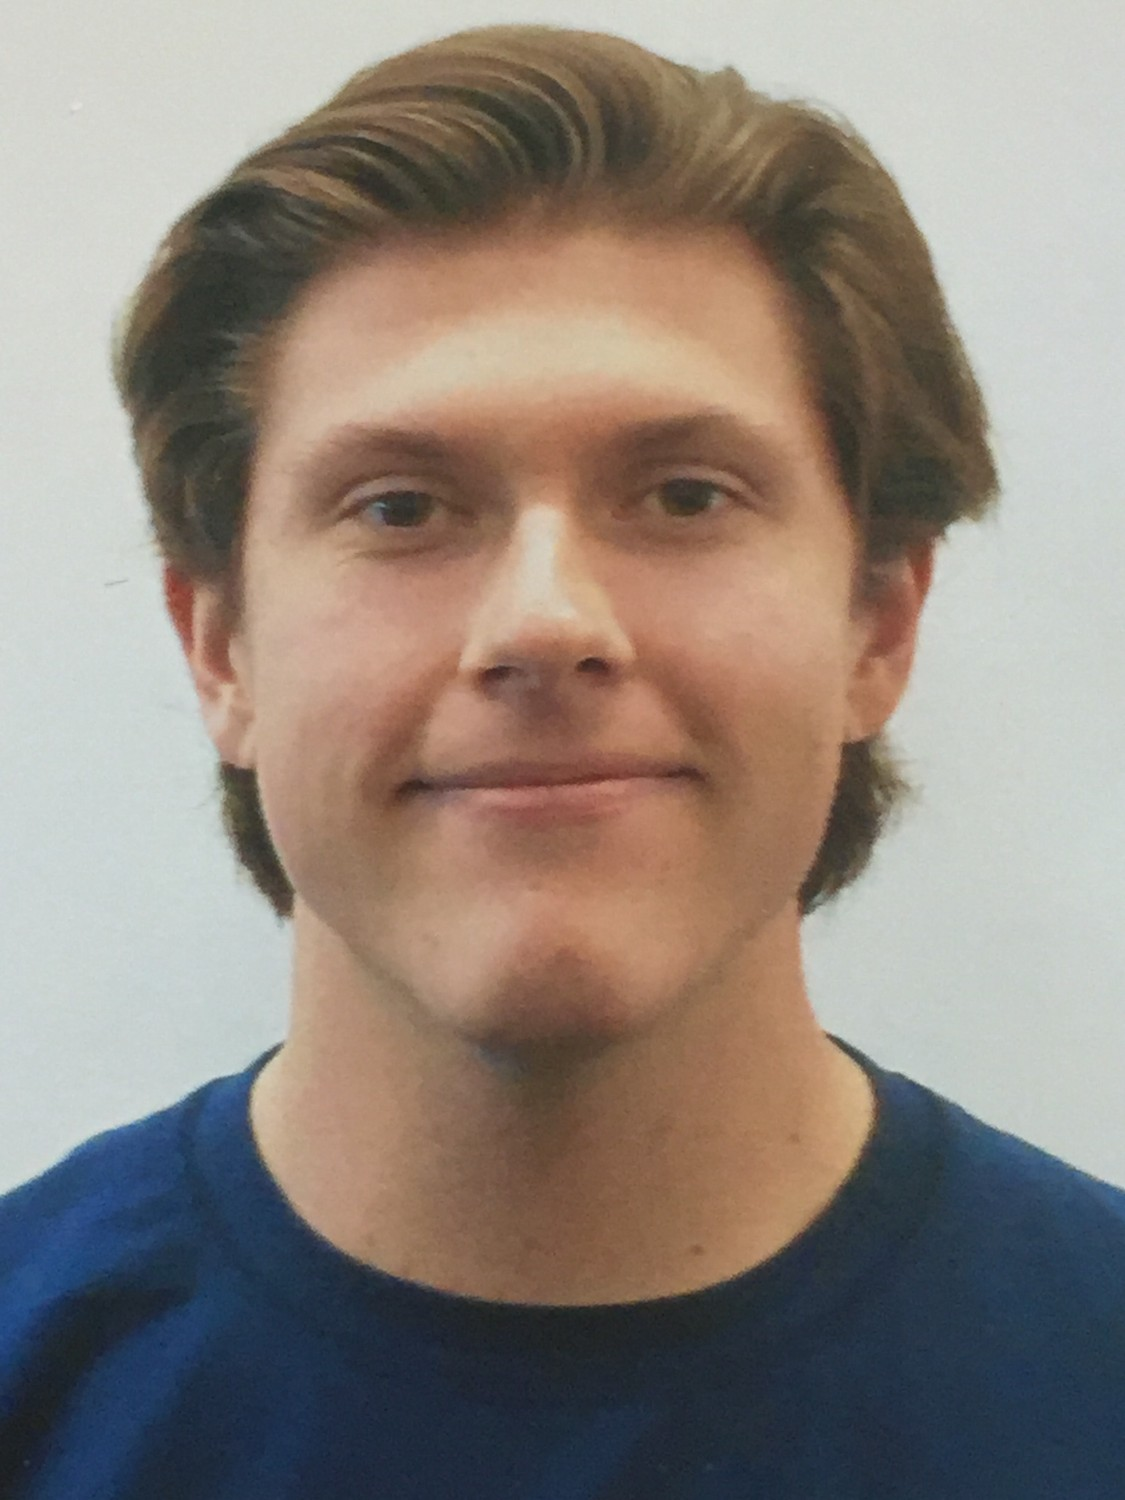
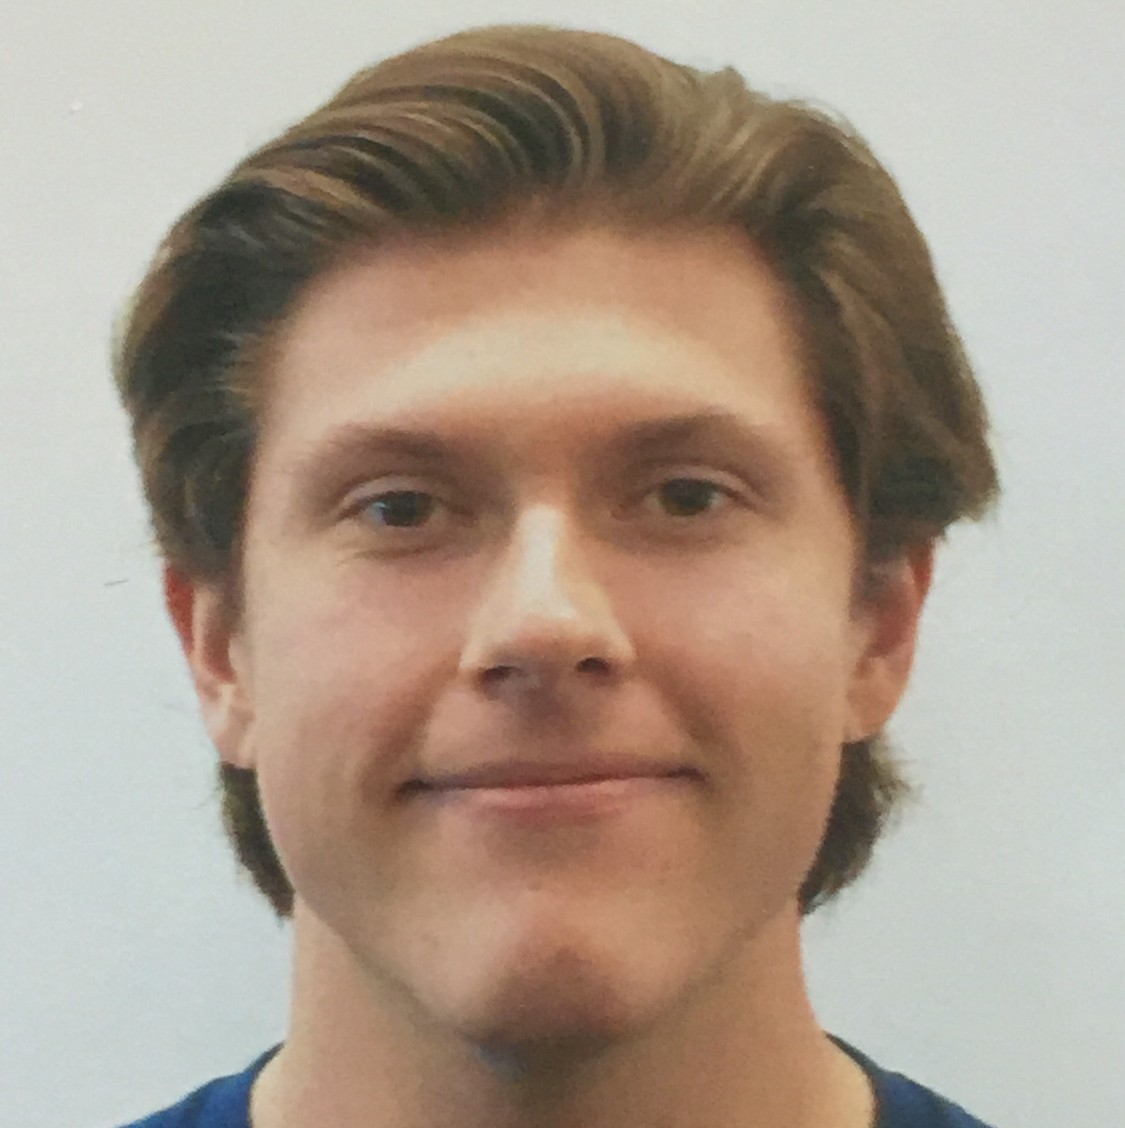
Added board pictures

diff --git a/board.html b/board.html
@@ -59,10 +59,17 @@
 </header>
 <!--End of Navigation Bar-->
 
-<!--HEADER-->
-<div id="header" ><div class="jumbotron text-center">
+<!--End of Navigation Bar-->
+<body style="background-color:#f6f6f6;">
+<!--Parallax div-->
+<div class="bgimg" style="top:-40px">
+  <!--overlay so you can read the text-->
+  <div class="overlay">
+    <div class="jumbotron text-center" style="background:none; padding-top:40px;"><BR><BR>
   <h1 style="font-family:Open Sans">Meet the Board</h1>
-</div></div>
+</div>
+</div>
+</div>
 
 <!--First Section-->
 <div class="col-sm-12 section">
@@ -77,8 +84,8 @@
            </div>-->
            <div class="cover">
            </div>
-           <div class="user">
-               <img class="img-circle" src="img/acm-desktopcta.png" alt="Charles Bucher Headshot"/><!--headshot image-->
+           <div class="user bottom right left top">
+               <img class="img-circle bottom right left top" src="img/acm-desktopcta.png" alt="Charles Bucher Headshot"/><!--headshot image-->
            </div>
            <div class="content">
                <div class="main">
@@ -120,8 +127,8 @@
         </div>-->
         <div class="cover">
         </div>
-        <div class="user">
-            <img class="img-circle" src="img/acm-desktopcta.png" alt="Oscar Olazabal Headshot"/><!--headshot image-->
+        <div class="user bottom right left top">
+            <img class="img-circle bottom right left top" src="img/acm-desktopcta.png" alt="Oscar Olazabal Headshot"/><!--headshot image-->
         </div>
         <div class="content">
             <div class="main">
@@ -161,8 +168,8 @@
         </div>-->
         <div class="cover">
         </div>
-        <div class="user">
-            <img class="img-circle" src="img/acm-desktopcta.png" alt="Tommy Chao Headshot"/><!--headshot image-->
+        <div class="user bottom right left top">
+            <img class="img-circle bottom right left top" src="img/acm-desktopcta.png" alt="Tommy Chao Headshot"/><!--headshot image-->
         </div>
         <div class="content">
             <div class="main">
@@ -203,8 +210,8 @@
      </div>-->
      <div class="cover">
      </div>
-     <div class="user">
-         <img class="img-circle" src="img/acm-desktopcta.png" alt="Eric Abbott Headshot"/><!--headshot image-->
+     <div class="user bottom right left top">
+         <img class="img-circle bottom right left top" src="img/20170825_172230.jpg" alt="Eric Abbott Headshot"/><!--headshot image-->
      </div>
      <div class="content">
          <div class="main">
@@ -243,8 +250,8 @@
    </div>-->
    <div class="cover">
    </div>
-   <div class="user">
-       <img class="img-circle" src="img/acm-desktopcta.png" alt="Julian Coronado Headshot"/><!--headshot image-->
+   <div class="user  bottom right left top">
+       <img class="img-circle  bottom right left top" src="img/20170825_172118.jpg" alt="Julian Coronado Headshot"/><!--headshot image-->
    </div>
    <div class="content">
        <div class="main">
@@ -283,8 +290,8 @@
    </div>-->
    <div class="cover">
    </div>
-   <div class="user">
-       <img class="img-circle" src="img/acm-desktopcta.png" alt="Dipen Patel Headshot"/><!--headshot image-->
+   <div class="user bottom right left top">
+       <img class="img-circle bottom right left top" src="img/acm-desktopcta.png" alt="Dipen Patel Headshot"/><!--headshot image-->
    </div>
    <div class="content">
        <div class="main">
@@ -325,8 +332,8 @@
    </div>-->
    <div class="cover">
    </div>
-   <div class="user">
-       <img class="img-circle" src="img/acm-desktopcta.png" alt="William Clemons Headshot"/><!--headshot image-->
+   <div class="user bottom right left top">
+       <img class="img-circle bottom right left top" src="img/william.jpg" alt="William Clemons Headshot"/><!--headshot image-->
    </div>
    <div class="content">
        <div class="main">
@@ -367,8 +374,8 @@
    </div>-->
    <div class="cover">
    </div>
-   <div class="user">
-       <img class="img-circle" src="img/acm-desktopcta.png" alt="Navie Vurdien Headshot"/><!--headshot image-->
+   <div class="user bottom right left top">
+       <img class="img-circle bottom right left top" src="img/acm-desktopcta.png" alt="Navie Vurdien Headshot"/><!--headshot image-->
    </div>
    <div class="content">
        <div class="main">
@@ -409,8 +416,8 @@
    </div>-->
    <div class="cover">
    </div>
-   <div class="user">
-       <img class="img-circle" src="img/acm-desktopcta.png" alt="Christopher Grant Headshot"/><!--headshot image-->
+   <div class="user bottom right left top">
+       <img class="img-circle  bottom right left top" src="img/acm-desktopcta.png" alt="Christopher Grant Headshot"/><!--headshot image-->
    </div>
    <div class="content">
        <div class="main">
@@ -451,8 +458,8 @@
    </div>-->
    <div class="cover">
    </div>
-   <div class="user">
-       <img class="img-circle" src="img/acm-desktopcta.png" alt="Christopher Grant Headshot"/><!--headshot image-->
+   <div class="user  bottom right left top">
+       <img class="img-circle bottom right left topv" src="img/acm-desktopcta.png" alt="Roy Redman Headshot"/><!--headshot image-->
    </div>
    <div class="content">
        <div class="main">
@@ -554,15 +561,27 @@ $(window).scroll(function () {
 
 .bgimg{
   /* Full height */
-    height: 100%;
+    height: 50%;
     /* Create the parallax scrolling effect */
     background-attachment: fixed;
-    background-position: center;
+    background-position: bottom;
     background-repeat: no-repeat;
     background-size: cover;
+    width: 100%;
     background-color: black;
-  background-image: url("https://farm5.staticflickr.com/4059/4696338852_bde479b169_o.jpg");
+  background-image: url("img/20170825_171844.jpg");
+  min-height: 50%;
+}
+
+.overlay{
+  height:100%;
+  background: rgba(0, 93, 170, 0.7);
   min-height: 100%;
+  -webkit-box-shadow: inset 0px -5px 5px 0px black;
+  -moz-box-shadow: inset 0px -5px 5px 0px rgba(0,0,0,0.45);
+  box-shadow: inset 0px -5px 5px 0px rgba(0,0,0,0.45);
+z-index: 88;
+position: relative;
 }
 
 @media only screen and (max-device-width: 1024px) {
@@ -570,7 +589,6 @@ $(window).scroll(function () {
         background-attachment: scroll;
     }
 }
-
 </style>
 
 <!--Allows cards to flip-->

diff --git a/about.html b/about.html
@@ -57,11 +57,15 @@
 </header>
 <!--End of Navigation Bar-->
 
-<!--HEADER-->
-<div id="header">
-  <div class="jumbotron text-center">
-  <h1 style="font-family:Open Sans">About Us</h1>
-  <h3 style="font-family:Open Sans">ACM</h3>
+<!--End of Navigation Bar-->
+<body style="background-color:#f6f6f6;">
+<!--Parallax div-->
+<div class="bgimg" style="top:-40px">
+  <!--overlay so you can read the text-->
+  <div class="overlay">
+    <div class="jumbotron text-center" style="background:none; padding-top:40px;"><BR><BR>
+  <h1 style="font-family:Open Sans">About</h1>
+</div>
 </div>
 </div>
 
@@ -149,15 +153,27 @@ $(window).scroll(function () {
 
 .bgimg{
   /* Full height */
-    height: 100%;
+    height: 50%;
     /* Create the parallax scrolling effect */
     background-attachment: fixed;
     background-position: center;
     background-repeat: no-repeat;
     background-size: cover;
+    width: 100%;
     background-color: black;
-  background-image: url("https://farm5.staticflickr.com/4059/4696338852_bde479b169_o.jpg");
+  background-image: url("img/20170825_171902.jpg");
+  min-height: 50%;
+}
+
+.overlay{
+  height:100%;
+  background: rgba(0, 93, 170, 0.7);
   min-height: 100%;
+  -webkit-box-shadow: inset 0px -5px 5px 0px black;
+  -moz-box-shadow: inset 0px -5px 5px 0px rgba(0,0,0,0.45);
+  box-shadow: inset 0px -5px 5px 0px rgba(0,0,0,0.45);
+z-index: 88;
+position: relative;
 }
 
 @media only screen and (max-device-width: 1024px) {

diff --git a/css/bootstrap.css b/css/bootstrap.css
@@ -7396,11 +7396,3 @@ input[type=submit]:hover{
   .fa:hover {
       color: #e17000;
   }
-  a {
-      color: #fff !important;
-      text-decoration: underline;
-  }
-
-  a:hover {
-      color: #e17000 !important;
-  }

diff --git a/css/rotating-card.css b/css/rotating-card.css
@@ -105,7 +105,7 @@
 }
 .card .user img{
     background: none repeat scroll 0 0 #FFFFFF;
-    border: 4px solid #FFFFFF;
+    border: 4px solid #0000;
     width: 100%;
 }
 
